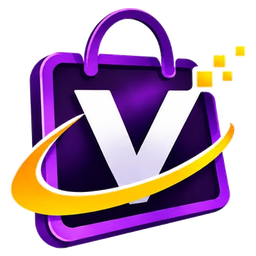
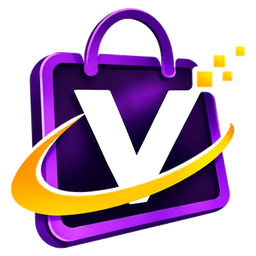
Vitrix: V de la bolsa todo blanco; las páginas piden la imagen nueva (el celular no usa la guardada)
Claude-Session: https://claude.ai/code/session_019EnWZ2w3FzxJZ5bukhMXBN

diff --git a/araujo-tech-site/vitrix/index.html b/araujo-tech-site/vitrix/index.html
@@ -12,9 +12,9 @@
 <meta property="og:title" content="Vitrix · Tu negocio visible. Tus productos a un clic de tus clientes.">
 <meta property="og:description" content="Sin comisión y sin límite de pedidos. Caja, cocina, mesas con QR, clientes, stock y sitio web en un solo sistema.">
 <meta property="og:url" content="https://araujotechsistemas.com/vitrix/">
-<meta property="og:image" content="https://araujotechsistemas.com/img/vitrix/og.jpg">
+<meta property="og:image" content="https://araujotechsistemas.com/img/vitrix/og.jpg?v=3">
 <meta name="twitter:card" content="summary_large_image">
-<link rel="icon" href="../img/vitrix/vitrix-icono.png">
+<link rel="icon" href="../img/vitrix/vitrix-icono.png?v=3">
 <link rel="preconnect" href="https://fonts.googleapis.com">
 <link rel="preconnect" href="https://fonts.gstatic.com" crossorigin>
 <link href="https://fonts.googleapis.com/css2?family=Red+Hat+Display:wght@700;900&family=Red+Hat+Text:wght@400;500;700&display=swap" rel="stylesheet">
@@ -210,7 +210,7 @@ function render(){const t=T[lang];document.documentElement.lang=lang==='pt'?'pt-
  const msg=lang==='pt'?'Olá! Quero saber mais sobre o Vitrix.':'¡Hola! Quiero saber más sobre Vitrix.';
  const ok=x=>`<li>${ic('check',18)}<span>${x}</span></li>`;
  document.getElementById('app').innerHTML=`
- <div class="hero"><div class="wrap"><div><img class="vxlogo" src="../img/vitrix/vitrix-blanco-nombre.png" alt="Vitrix" width="640" height="202"><p class="vxlema">${t.vx_lema}</p><span class="kick">${t.kick}</span><h1>${t.h1}</h1><p>${t.hp}</p>
+ <div class="hero"><div class="wrap"><div><img class="vxlogo" src="../img/vitrix/vitrix-blanco-nombre.png?v=3" alt="Vitrix" width="640" height="202"><p class="vxlema">${t.vx_lema}</p><span class="kick">${t.kick}</span><h1>${t.h1}</h1><p>${t.hp}</p>
   <div class="ctas"><a class="btn btn-white" href="../demo/" target="_blank" rel="noopener">${ic('eye')}${t.demo}</a><a class="btn btn-line" href="${wa(msg)}" target="_blank" rel="noopener">${ic('chat')}${t.wa}</a></div>
   <div class="chips">${t.chips.map(c=>`<span>${ic('check',16)}${c}</span>`).join('')}</div></div>
   <div class="devs"><div class="pc"><img src="../img/sistemas/catalogo-pc.jpg" alt="" width="1280" height="800"></div><div class="cel"><img src="../img/sistemas/farmacia-cel.jpg" alt="" width="600" height="1298"></div></div></div></div>

diff --git a/araujo-tech-site/index.html b/araujo-tech-site/index.html
@@ -518,7 +518,7 @@ const CONFIG = {
    pc / celular: capturas REALES de pantalla en img/ ("" mientras no haya)
    ========================================================= */
 const SISTEMAS = [
-  { nombre:"Vitrix", logo:"img/vitrix/vitrix-nombre.png", sub:{es:"Tu negocio visible. Tus productos a un clic de tus clientes.",pt:"Seu negócio visível. Seus produtos a um clique dos seus clientes."}, status:"ok", desde:{es:"Desde <b>US$ 16</b> por mes · Lanzamiento: <b>2 meses gratis</b>",pt:"A partir de <b>US$ 16</b> por mês · Lançamento: <b>2 meses grátis</b>"}, link:"demo/", demo:true, mas:"vitrix/", planes:"vitrix/#planes", pc:"img/sistemas/catalogo-pc.jpg", celular:"img/sistemas/catalogo-cel.jpg",
+  { nombre:"Vitrix", logo:"img/vitrix/vitrix-nombre.png?v=3", sub:{es:"Tu negocio visible. Tus productos a un clic de tus clientes.",pt:"Seu negócio visível. Seus produtos a um clique dos seus clientes."}, status:"ok", desde:{es:"Desde <b>US$ 16</b> por mes · Lanzamiento: <b>2 meses gratis</b>",pt:"A partir de <b>US$ 16</b> por mês · Lançamento: <b>2 meses grátis</b>"}, link:"demo/", demo:true, mas:"vitrix/", planes:"vitrix/#planes", pc:"img/sistemas/catalogo-pc.jpg", celular:"img/sistemas/catalogo-cel.jpg",
     es:{ para:"Para restaurantes, farmacias, tiendas y todo comercio",
          desc:"El menú o catálogo de cualquier negocio en internet: restaurantes, farmacias, tiendas de ropa, cosméticos, almacenes y más. El cliente arma el pedido y le llega listo a su WhatsApp.",
          puntos:["Sin comisión y sin límite de pedidos","Caja, pantalla de cocina y mesas con QR","Clientes, stock, opiniones y sitio web"] },
